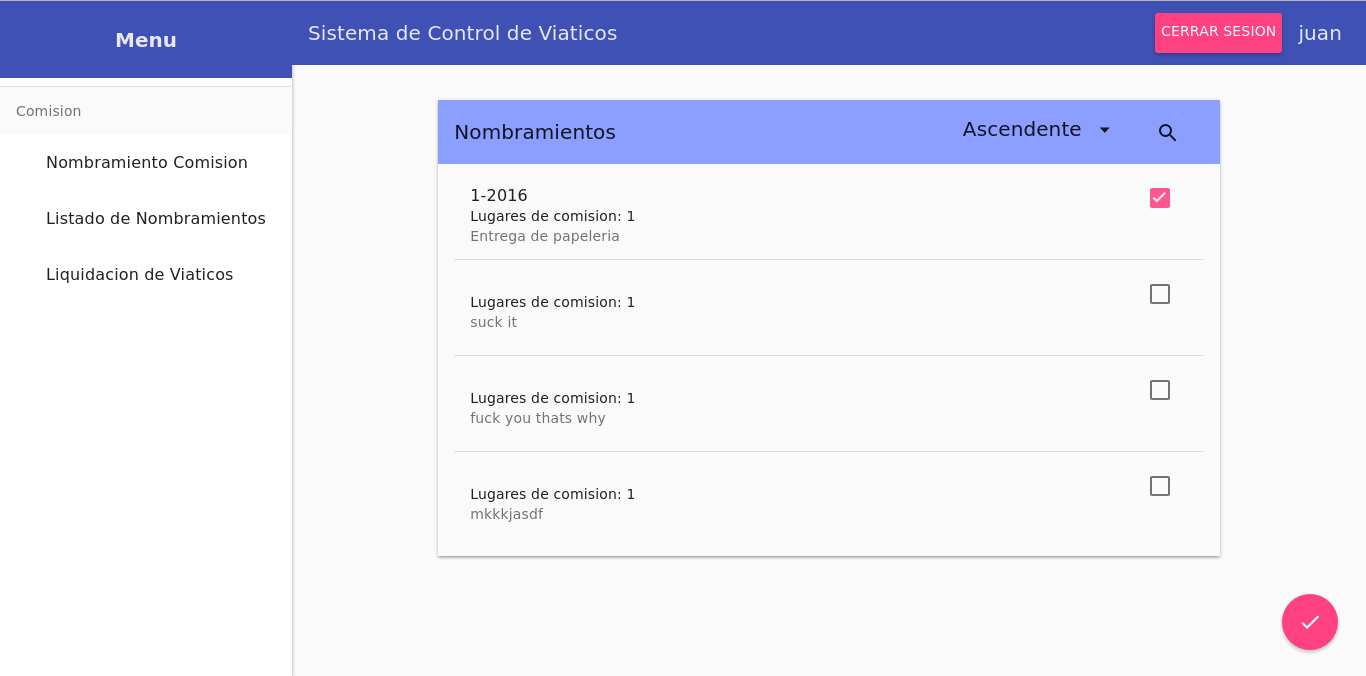
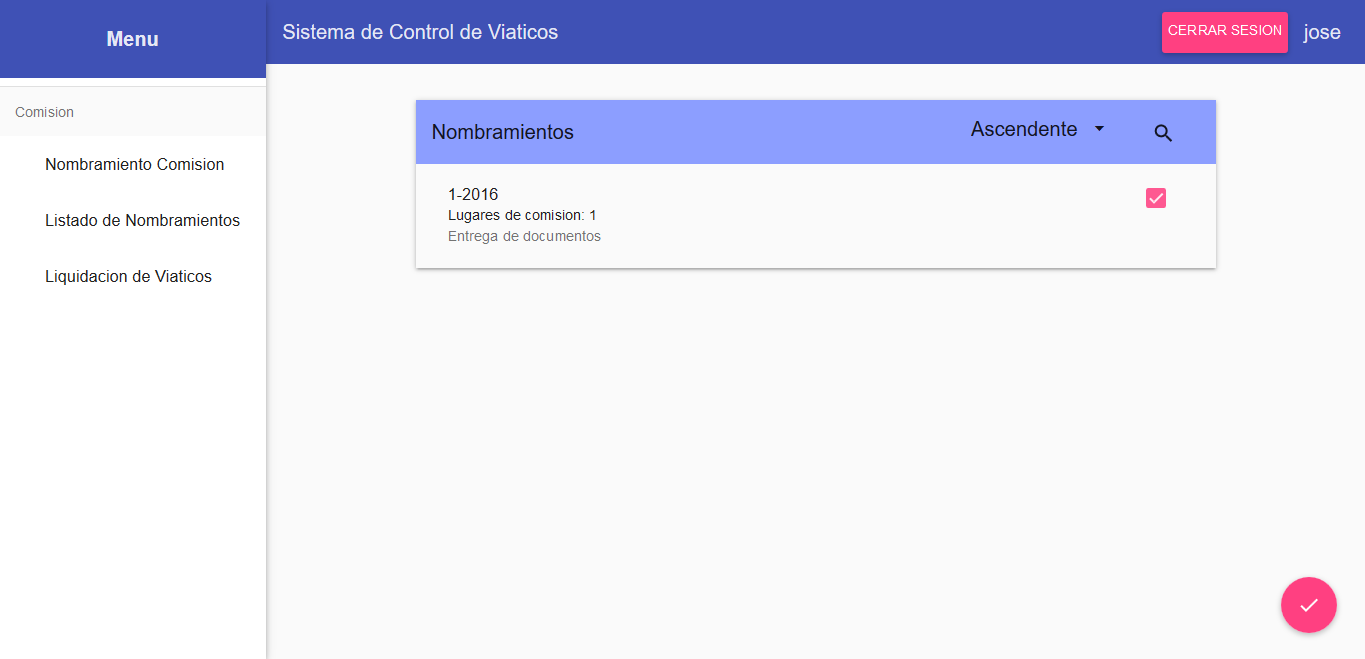
Cambia las imagenes usadas en el manual y se incluye la informacion adicional de liquidacion.

diff --git a/README.md b/README.md
@@ -39,3 +39,11 @@ En esta página debemos de seleccionar los nombramientos de que conforman una so
 ![liquidacion](/manual/liquidacion.png)
 
 Al hacer esto se habilitara el boton de que nos pedira información adicional para la liquidación.
+
+![liquidacion prompt](/manual/liquidacion_prompt.png)
+
+En este ultimo formulario se ingresa de quien se recibe la liquidación de viaticos la fracción de días que se pasaron en los lugares correspondientes a los nombramientos seleccionados y anticipos que se pudieron haber tenido, estos son opcionales y se habilitan o desabilitan pulsando en el boton con las flehas que aparece en la barra del formulario.
+
+Al llenar todos los datos se habilitara la descarga del PDF.
+
+> Nota: A diferencia de los demás formularios, el de liquidación no se guardara.
